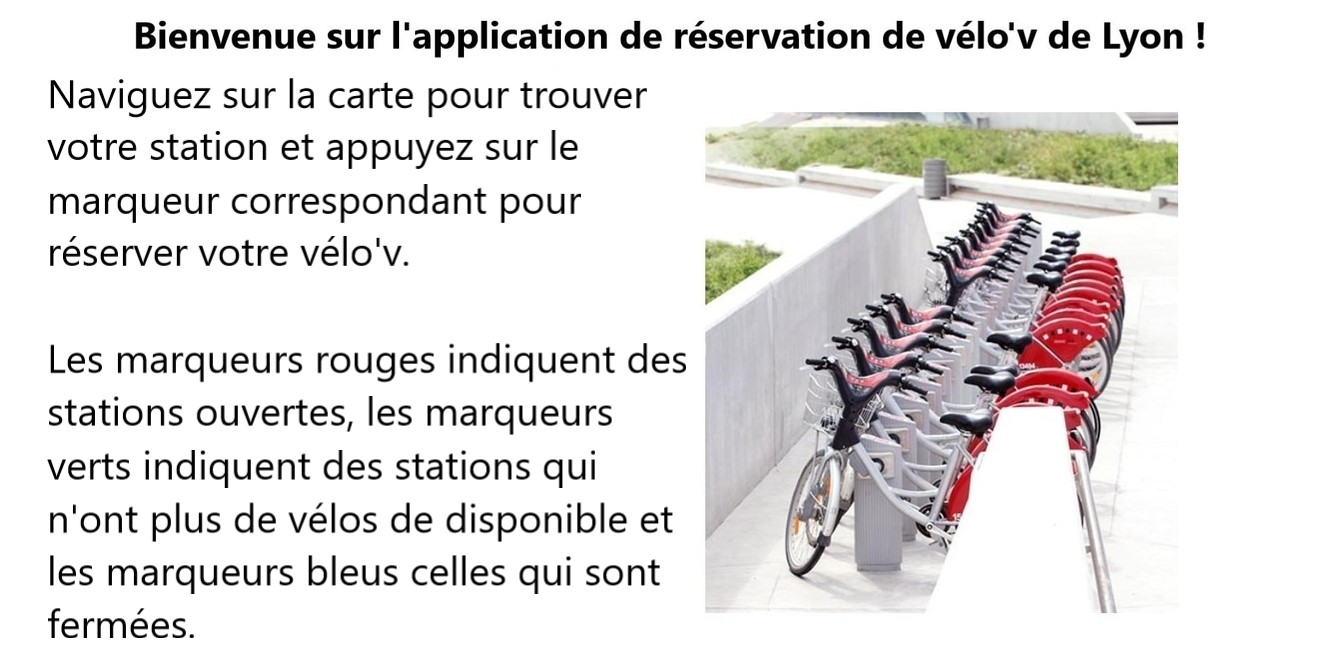
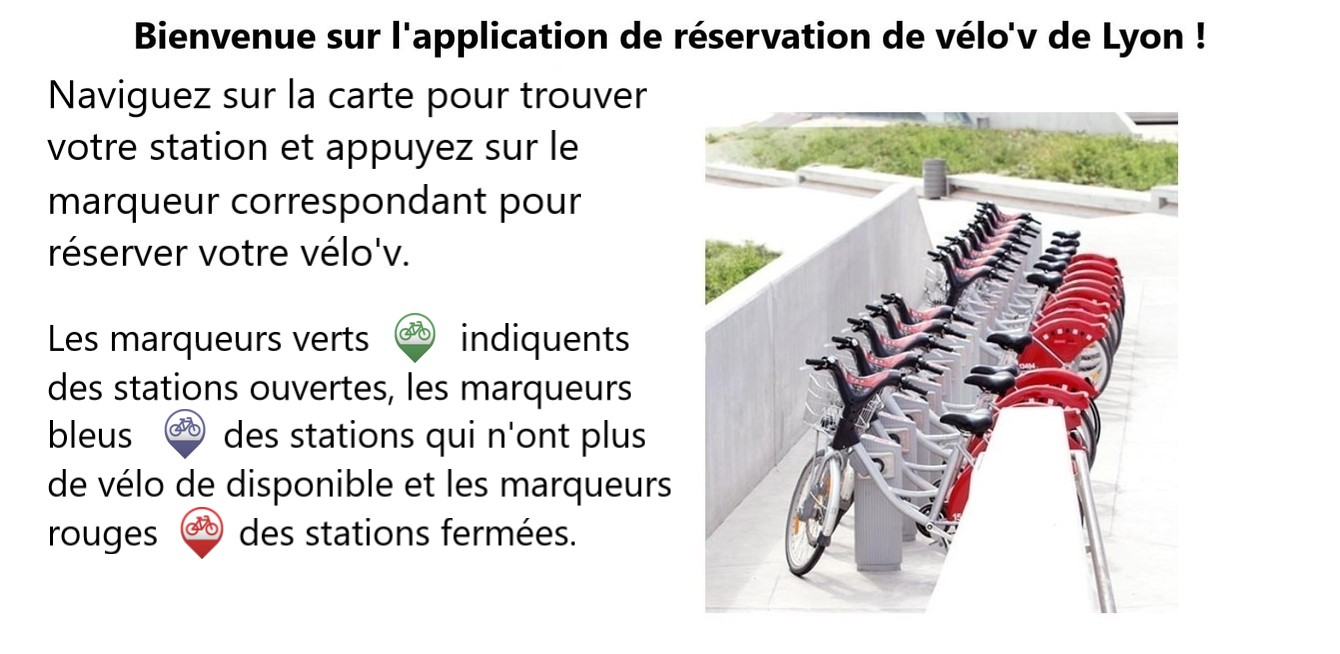
renamme js files model

Changed region(s): [[0.0306, 0.4893, 0.5201, 0.9786]]

diff --git a/js/station.model.js b/js/station.model.js
@@ -17,15 +17,15 @@ class Station {
 
     setIconMarker(station) {
 
-        //Si les stations sont ouvertes et n'ont aucun vélo de disponible alors les marqueurs sont verts :
+        //Si les stations sont ouvertes et n'ont aucun vélo de disponible alors les marqueurs sont bleus :
         if (station.status === "OPEN" && station.availableBikes === 0) {
-            return "images/iconelyon.png";
-            //Si les stations sont ouvertes alors les marqueurs sont rouges :
+            return "images/iconlyon_bleu.png";
+            //Si les stations sont ouvertes alors les marqueurs sont verts :
         } else if (station.status === "OPEN") {
             return "images/iconlyon_vert.png";
         }
-        //Dans les autres cas les marqueurs sont bleus :
-        return "images/iconlyon_bleu.png";
+        //Dans les autres cas les marqueurs sont rouges :
+        return "images/iconelyon.png";
     }
 
     //---------------------------------Méthode pour créer la div infoStation :
@@ -73,7 +73,7 @@ class Station {
     //---------------------------------Méthode qui permet si une réservation est présente dans sessionStorage sur telle station de lui retirer le vélo qui a été reservé :
 
     condition(station) {
-        
+
         if (station.name === sessionStorage.getItem("station")) {
             station.availableBikes--;
         }

diff --git a/index.html b/index.html
@@ -141,22 +141,22 @@
     <script src="https://ajax.googleapis.com/ajax/libs/jquery/1.7.2/jquery.min.js"></script>
 
     <!---class Station-->
-    <script src="js/station_model.js"></script>
+    <script src="js/station.model.js"></script>
 
     <!---class User-->
-    <script src="js/user_model.js"></script>
+    <script src="js/user.model.js"></script>
 
     <!---class Booking-->
-    <script src="js/booking_model.js"></script>
+    <script src="js/booking.model.js"></script>
 
     <!--class timer-->
-    <script src="js/timer_model.js"></script>
+    <script src="js/timer.model.js"></script>
 
     <!---slider-->
-    <script src="jquery/slider.js"></script>
+    <script src="jquery/slider.model.js"></script>
 
     <!--canvas-->
-    <script src="js/canvas.js"></script>
+    <script src="js/canvas.model.js"></script>
 
     <!---regroupement de marqueurs-->
     <script src="js/markerclusterer.js"></script>
